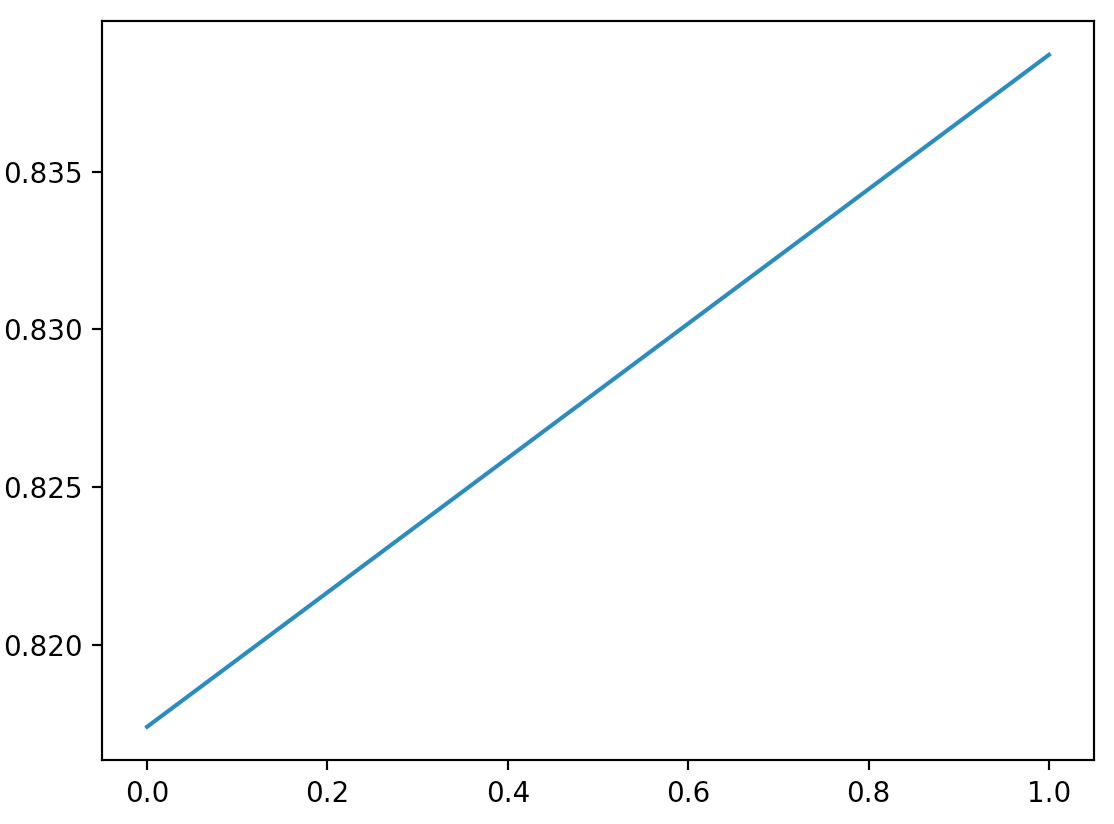
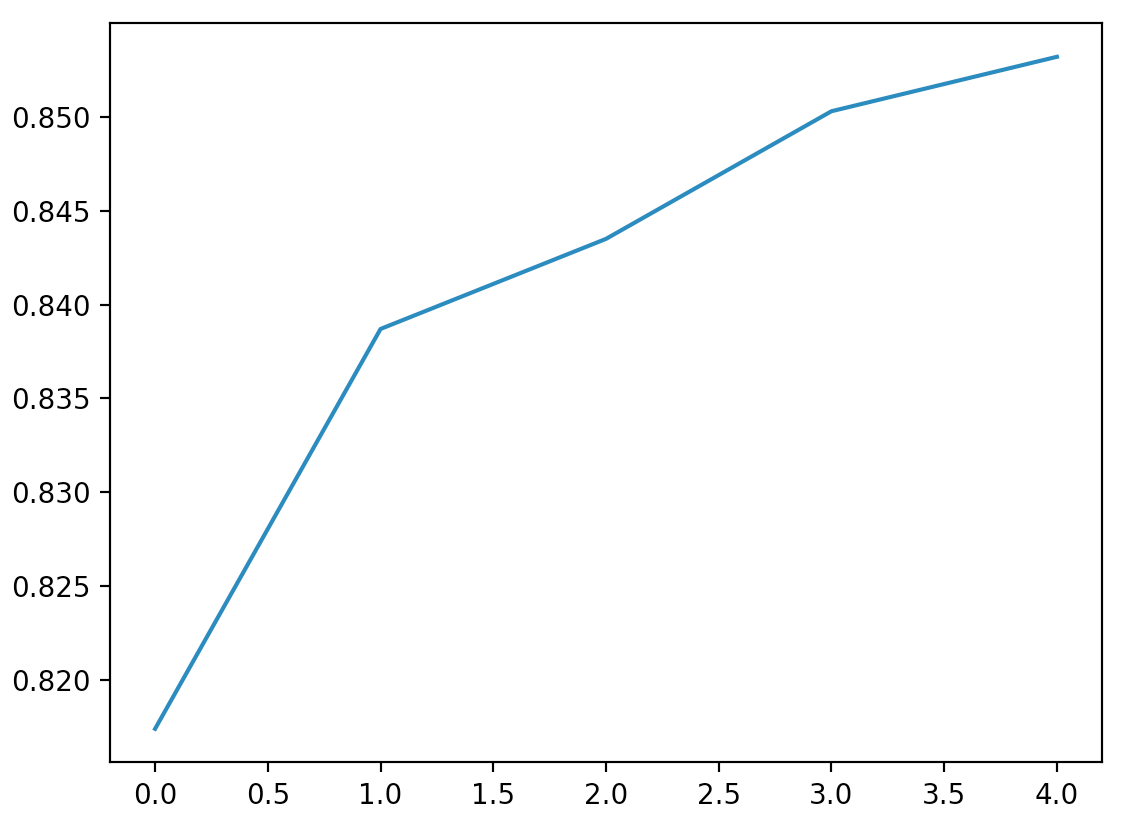
Sparse classifier

diff --git a/mnist_autoencoder/SC_STE.py b/mnist_autoencoder/SC_STE.py
@@ -209,7 +209,7 @@ train_loader = DataLoader(trainset, batch_size=BATCH_SIZE, shuffle=True, num_wor
 test_loader = DataLoader(testset, batch_size=BATCH_SIZE, shuffle=True, num_workers=0)
 
 EPOCHS = 1000
-model = Autoencoder(28, 28, 1024, 32, 1.0).to(DEVICE)
+model = Autoencoder(28, 28, 2048, 128, 1.0).to(DEVICE)
 distance = nn.NLLLoss()
 optimizer = torch.optim.Adam(model.parameters(), weight_decay=1e-5)
 outer_bar = tqdm(total=EPOCHS, position=0)
@@ -250,7 +250,7 @@ for epoch in range(EPOCHS):
     accuracies.append(accuracy)
     print("Model accuracy: ", accuracy)
     plt.clf()
-    plt.plot(accuracy)
+    plt.plot(accuracies)
     plt.pause(0.1)
     torch.save(model.state_dict(), 'sc_ste.pth')
     outer_bar.update(1)
